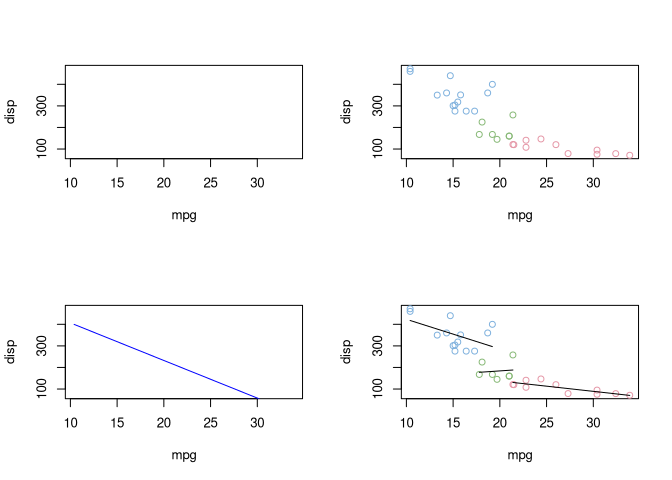
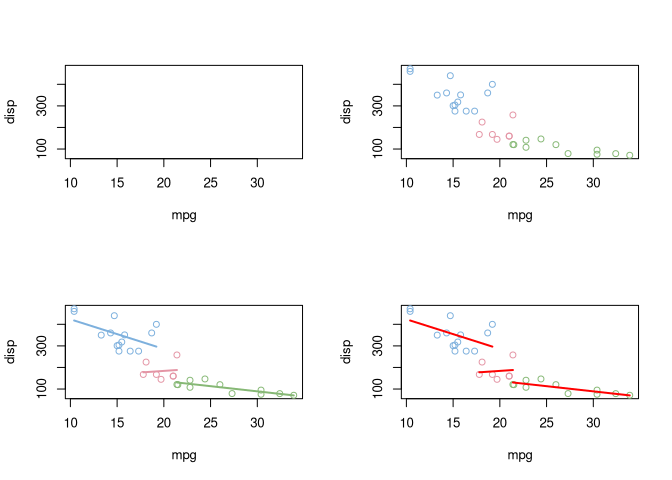
col amp supported for group lm

diff --git a/README.md b/README.md
@@ -9,9 +9,9 @@
 library(bbplot)
 
 p <- bbplot(mtcars, amp(mpg, disp, col=factor(cyl)))
-p1 = p %>% ly_point
-p2 = p %>% ly_lm(col='blue')
-p3 = p %>% ly_point %>% ly_lm(amp(group=cyl))
+p1 <- p %>% ly_point
+p2 <- p %>% ly_point %>% ly_lm(amp(group=cyl), lwd=2)
+p3 <- p %>% ly_point %>% ly_lm(amp(group=cyl), lwd=2, col='red')
 par(mfrow=c(2,2))
 p; p1; p2; p3
 ```
